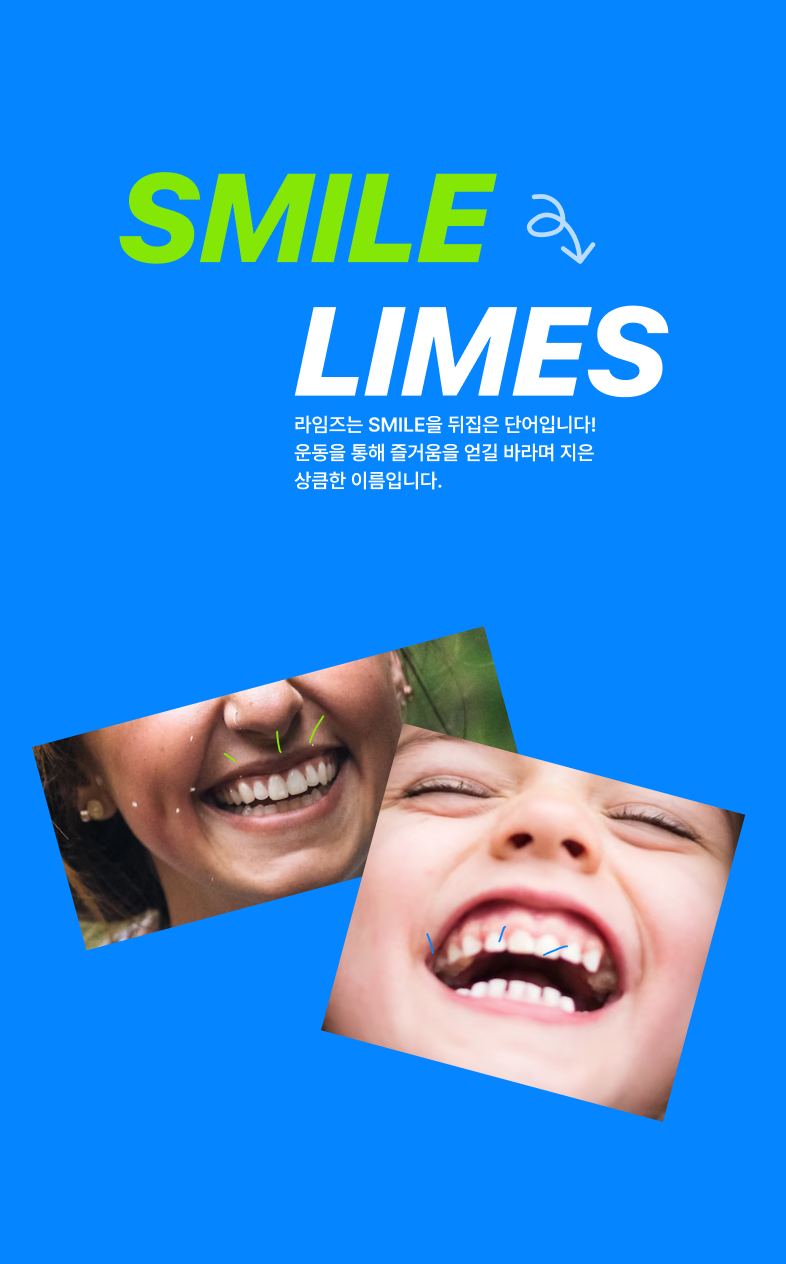
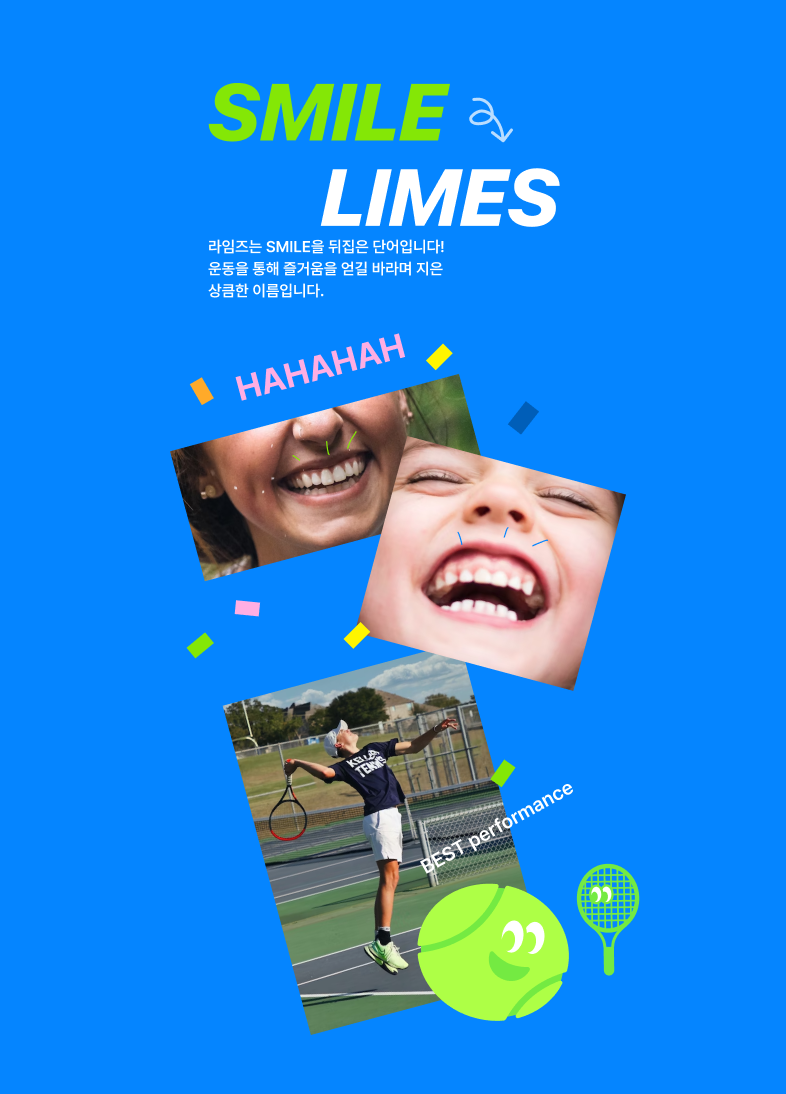
4

diff --git a/style.css b/style.css
@@ -63,12 +63,13 @@ padding:0;
 
 }
 
-.pad{
-padding-top: 4%;
+.pad, .pad2{
+padding-top: 8%;
 padding-bottom: 2%;
 padding-left:0;
 
 }
+
 
 .bgB{
     background-color: var(--mainC);
@@ -132,7 +133,7 @@ background-image: url('./img/img6.jpg');
     display: inline-block;
     z-index: 1042;
     position: absolute;
-    margin-top:18%;
+    margin-top:24%;
     padding: 0;
     border: 0;
     }
@@ -175,17 +176,21 @@ padding:0rem;
     .row1 {background-image: url('./img/m_main.png');} 
     .row2 {background-image: url('./img/m_img2.png');}
     .row3 {background-image: url('./img/m_img3.png');}
+    .row5 {height:75vh;}
      
     .card {
-        width:15rem;
+        width:20rem;
         height:25rem;
         margin-top: 100%;}
 
     .c1 {margin-left:2rem;}
-    .c2 {margin-left:18rem;}
+    .c2 {display: none;}
     .c3 {display: none;}
     .c4 {margin-left:0%;}
     .logos {margin-top: 4%;}
+
+    .pad2 {margin-top: 8;}
+
 
     }
 
@@ -212,6 +217,3 @@ padding:0rem;
   }
   
 
-  /* <div class="bgB txt_W card c1 fade-in"></div>
-  <div class="bgB txt_W card c2 fade-in"></div>
-  <div class="bgB txt_W card c3 fade-in"></div> */

diff --git a/index.html b/index.html
@@ -77,11 +77,15 @@
 
 <!-- ROW 5 -->
 
+<div class="bgB txt_W card c1 fade-in"></div>
+<div class="bgB txt_W card c2 fade-in"></div>
+<div class="bgB txt_W card c3 fade-in"></div>
+
 </div>
     <div class="container-fluid" style="z-index:1041;">
         <div class="row">
     
-          <div class="col-lg-5 pad">
+          <div class="col-lg-5 pad2">
               <h1 style="margin-left:8%; line-height:1.1;">즐거움을 넘어<br>성장의 가치를</h1>
               <p style="margin-left:8%">라임즈가 세상에 나올 수 있도록 <br> 계속 고민하던 홍익대의 디자이너들</p>
           </div>
